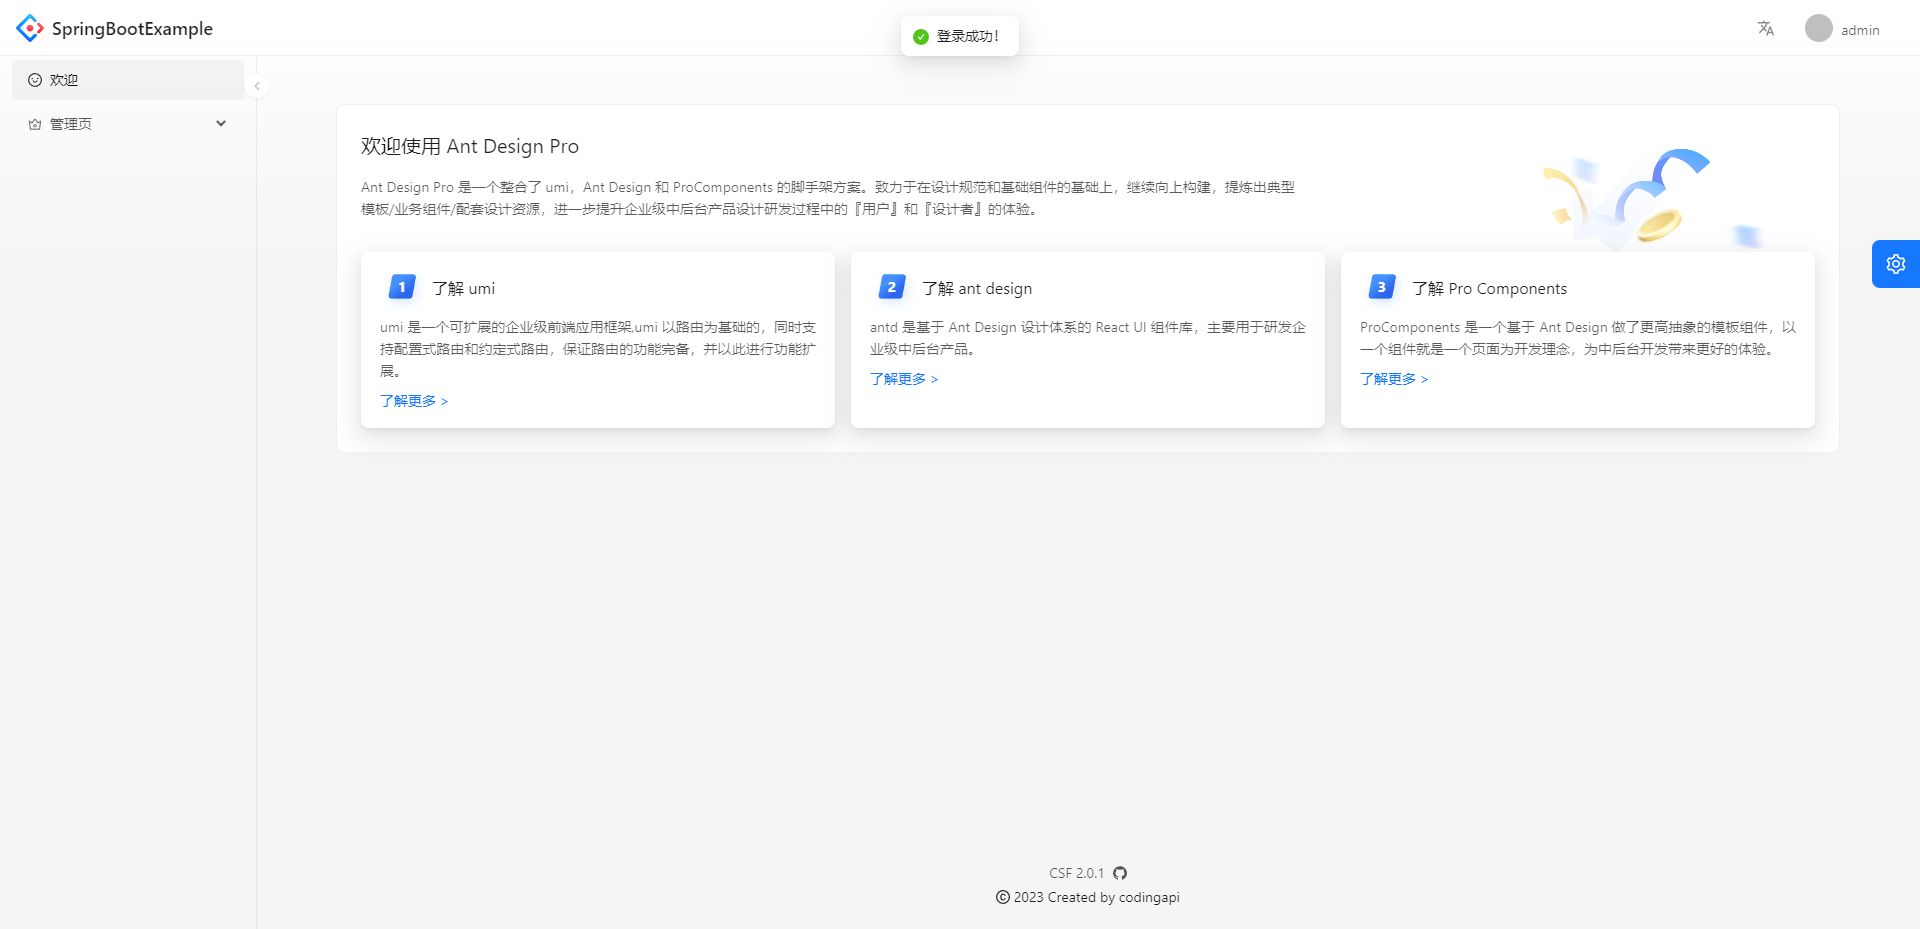
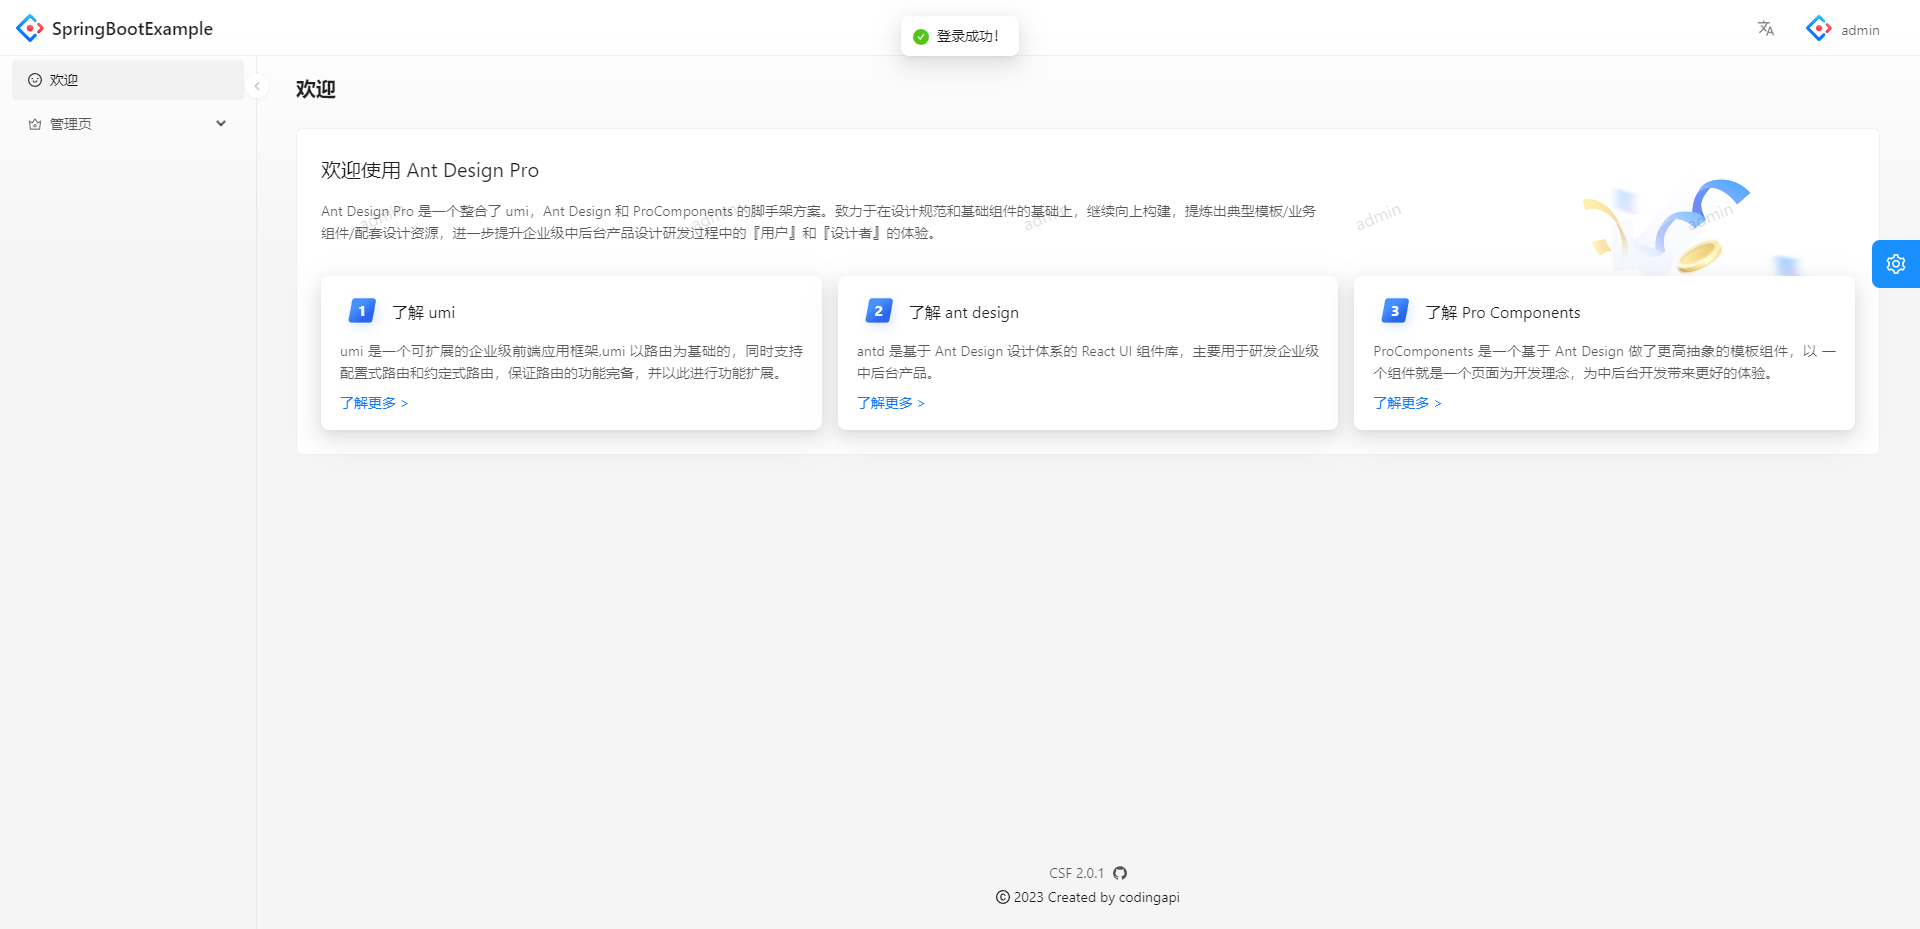
update ui

diff --git a/web/src/pages/login/index.tsx b/web/src/pages/login/index.tsx
@@ -85,7 +85,7 @@ const Login: React.FC = () => {
 
         localStorage.setItem('token', res.data.token);
         localStorage.setItem('username', res.data.username);
-        localStorage.setItem('avatar', res.data.avatar);
+        localStorage.setItem('avatar', '/logo.svg');
         localStorage.setItem('authorities', res.data.authorities.join(","));
 
         message.success(defaultLoginSuccessMessage);
@@ -160,7 +160,7 @@ const Login: React.FC = () => {
             <LoginMessage
               content={intl.formatMessage({
                 id: 'pages.login.accountLogin.errorMessage',
-                defaultMessage: '账户或密码错误(admin/ant.design)',
+                defaultMessage: '账户或密码错误(admin/admin)',
               })}
             />
           )}
@@ -173,7 +173,7 @@ const Login: React.FC = () => {
                 }}
                 placeholder={intl.formatMessage({
                   id: 'pages.login.username.placeholder',
-                  defaultMessage: '用户名: admin or user',
+                  defaultMessage: '用户名: admin',
                 })}
                 rules={[
                   {
@@ -195,7 +195,7 @@ const Login: React.FC = () => {
                 }}
                 placeholder={intl.formatMessage({
                   id: 'pages.login.password.placeholder',
-                  defaultMessage: '密码: ant.design',
+                  defaultMessage: '密码: admin',
                 })}
                 rules={[
                   {

diff --git a/web/src/locales/zh-CN/pages.ts b/web/src/locales/zh-CN/pages.ts
@@ -1,12 +1,12 @@
 export default {
   'pages.layouts.userLayout.title': 'Ant Design 是西湖区最具影响力的 Web 设计规范',
   'pages.login.accountLogin.tab': '账户密码登录',
-  'pages.login.accountLogin.errorMessage': '错误的用户名和密码(admin/ant.design)',
+  'pages.login.accountLogin.errorMessage': '错误的用户名和密码(admin/admin)',
   'pages.login.failure': '登录失败，请重试！',
   'pages.login.success': '登录成功！',
-  'pages.login.username.placeholder': '用户名: admin or user',
+  'pages.login.username.placeholder': '用户名: admin',
   'pages.login.username.required': '用户名是必填项！',
-  'pages.login.password.placeholder': '密码: ant.design',
+  'pages.login.password.placeholder': '密码: admin',
   'pages.login.password.required': '密码是必填项！',
   'pages.login.phoneLogin.tab': '手机号登录',
   'pages.login.phoneLogin.errorMessage': '验证码错误',

diff --git a/web/src/locales/zh-TW/pages.ts b/web/src/locales/zh-TW/pages.ts
@@ -1,12 +1,12 @@
 export default {
   'pages.layouts.userLayout.title': 'Ant Design 是西湖區最具影響力的 Web 設計規範',
   'pages.login.accountLogin.tab': '賬戶密碼登錄',
-  'pages.login.accountLogin.errorMessage': '錯誤的用戶名和密碼(admin/ant.design)',
+  'pages.login.accountLogin.errorMessage': '錯誤的用戶名和密碼(admin/admin)',
   'pages.login.failure': '登錄失敗，請重試！',
   'pages.login.success': '登錄成功！',
-  'pages.login.username.placeholder': '用戶名: admin or user',
+  'pages.login.username.placeholder': '用戶名: admin',
   'pages.login.username.required': '用戶名是必填項！',
-  'pages.login.password.placeholder': '密碼: ant.design',
+  'pages.login.password.placeholder': '密碼: admin',
   'pages.login.password.required': '密碼是必填項！',
   'pages.login.phoneLogin.tab': '手機號登錄',
   'pages.login.phoneLogin.errorMessage': '驗證碼錯誤',

diff --git a/README.md b/README.md
@@ -24,8 +24,29 @@ SpringBoot DDD Architecture | SpringBoot DDD 框架图
 * 集成业务
 
 ## 管理系统界面
+
 ![login](docs/img/login.png)
 ![login](docs/img/home.png)
+
+### antd-pro
+antd-pro基于react的管理系统界面框架，提供了丰富的组件，可以快速的开发管理系统界面。本项目基于antd-pro umi@4版本开发。
+
+运行步骤：
+```shell
+cd web
+npm install
+npm start
+```
+
+打包步骤：
+```shell
+cd scripts
+# linux 环境 
+sh package.sh
+# windows 环境
+./package.bat
+```
+更多详情请参考：https://pro.ant.design/docs/getting-started-cn
 
 ## 推荐的框架与软件
 
